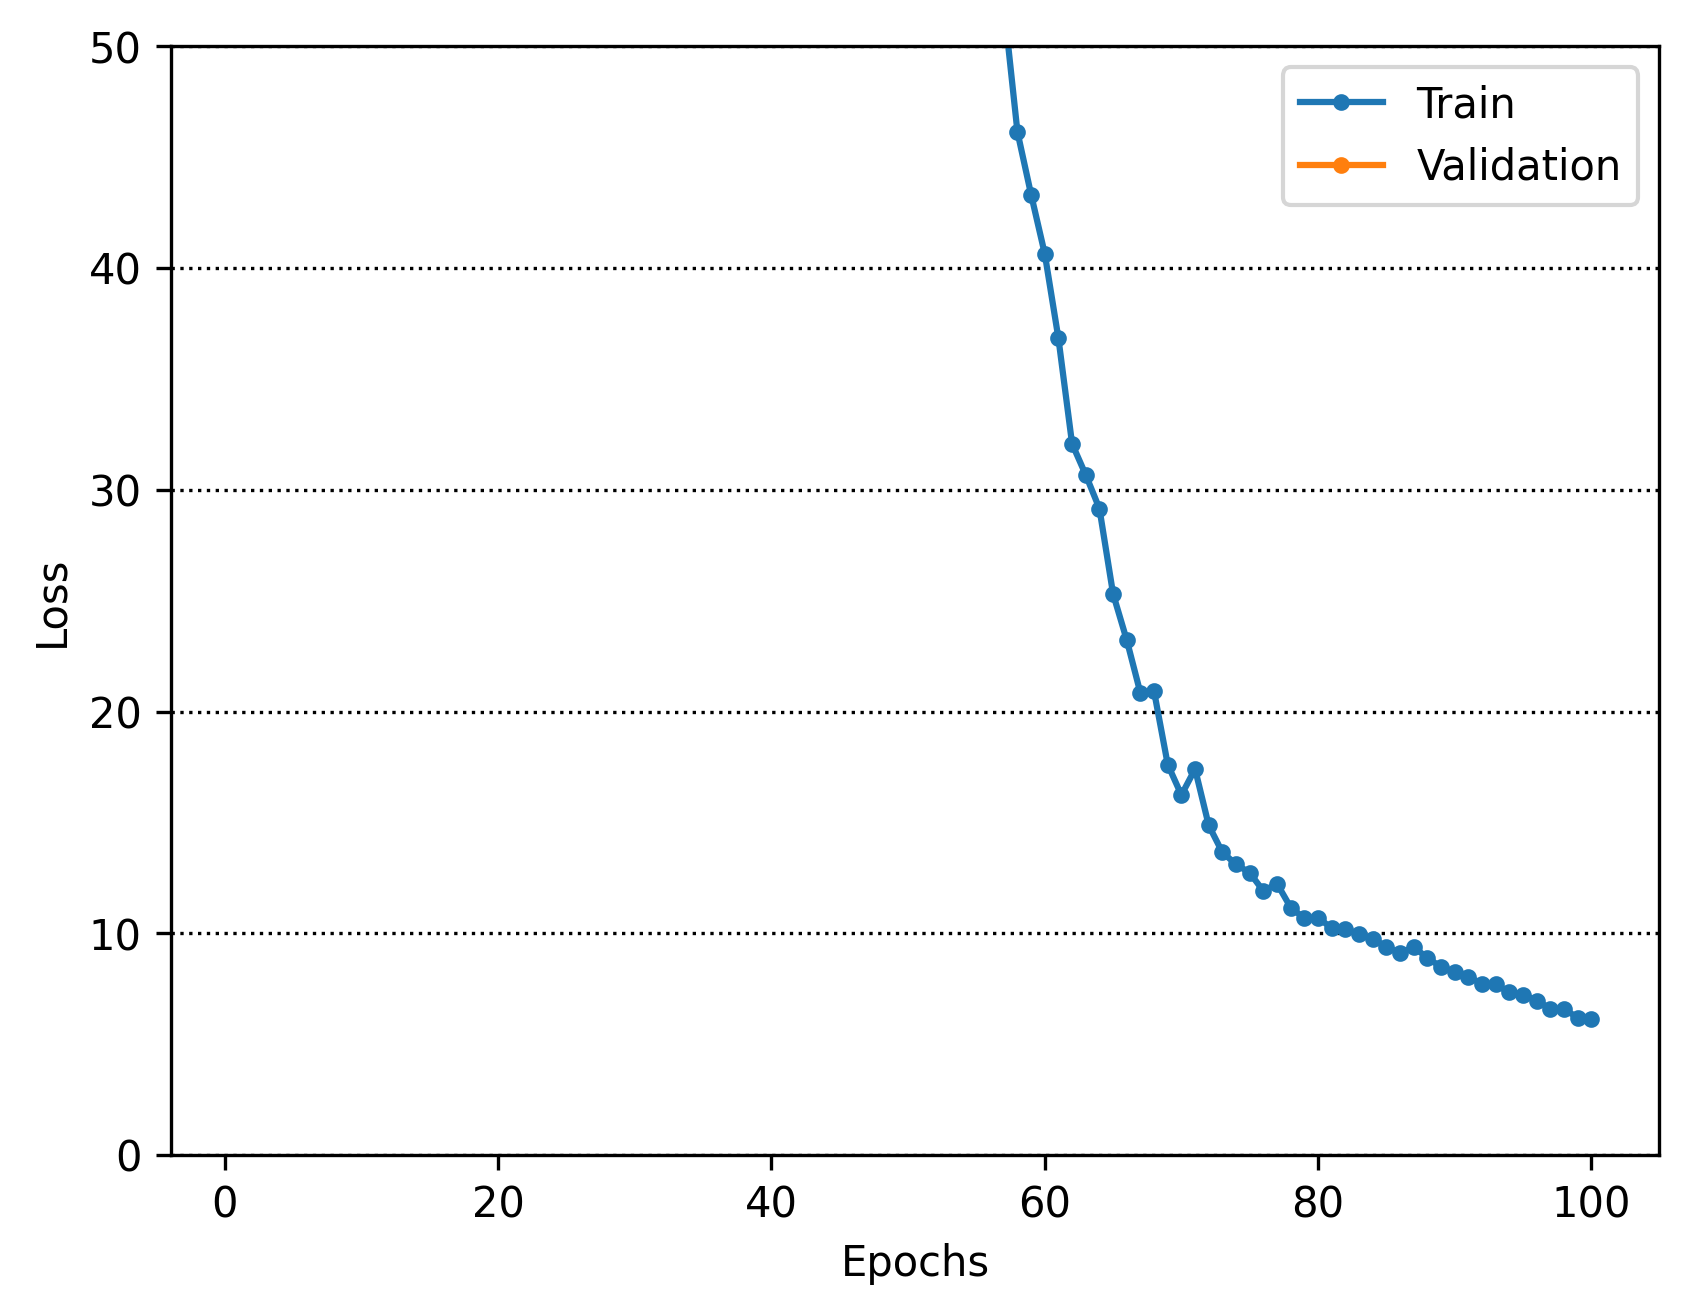
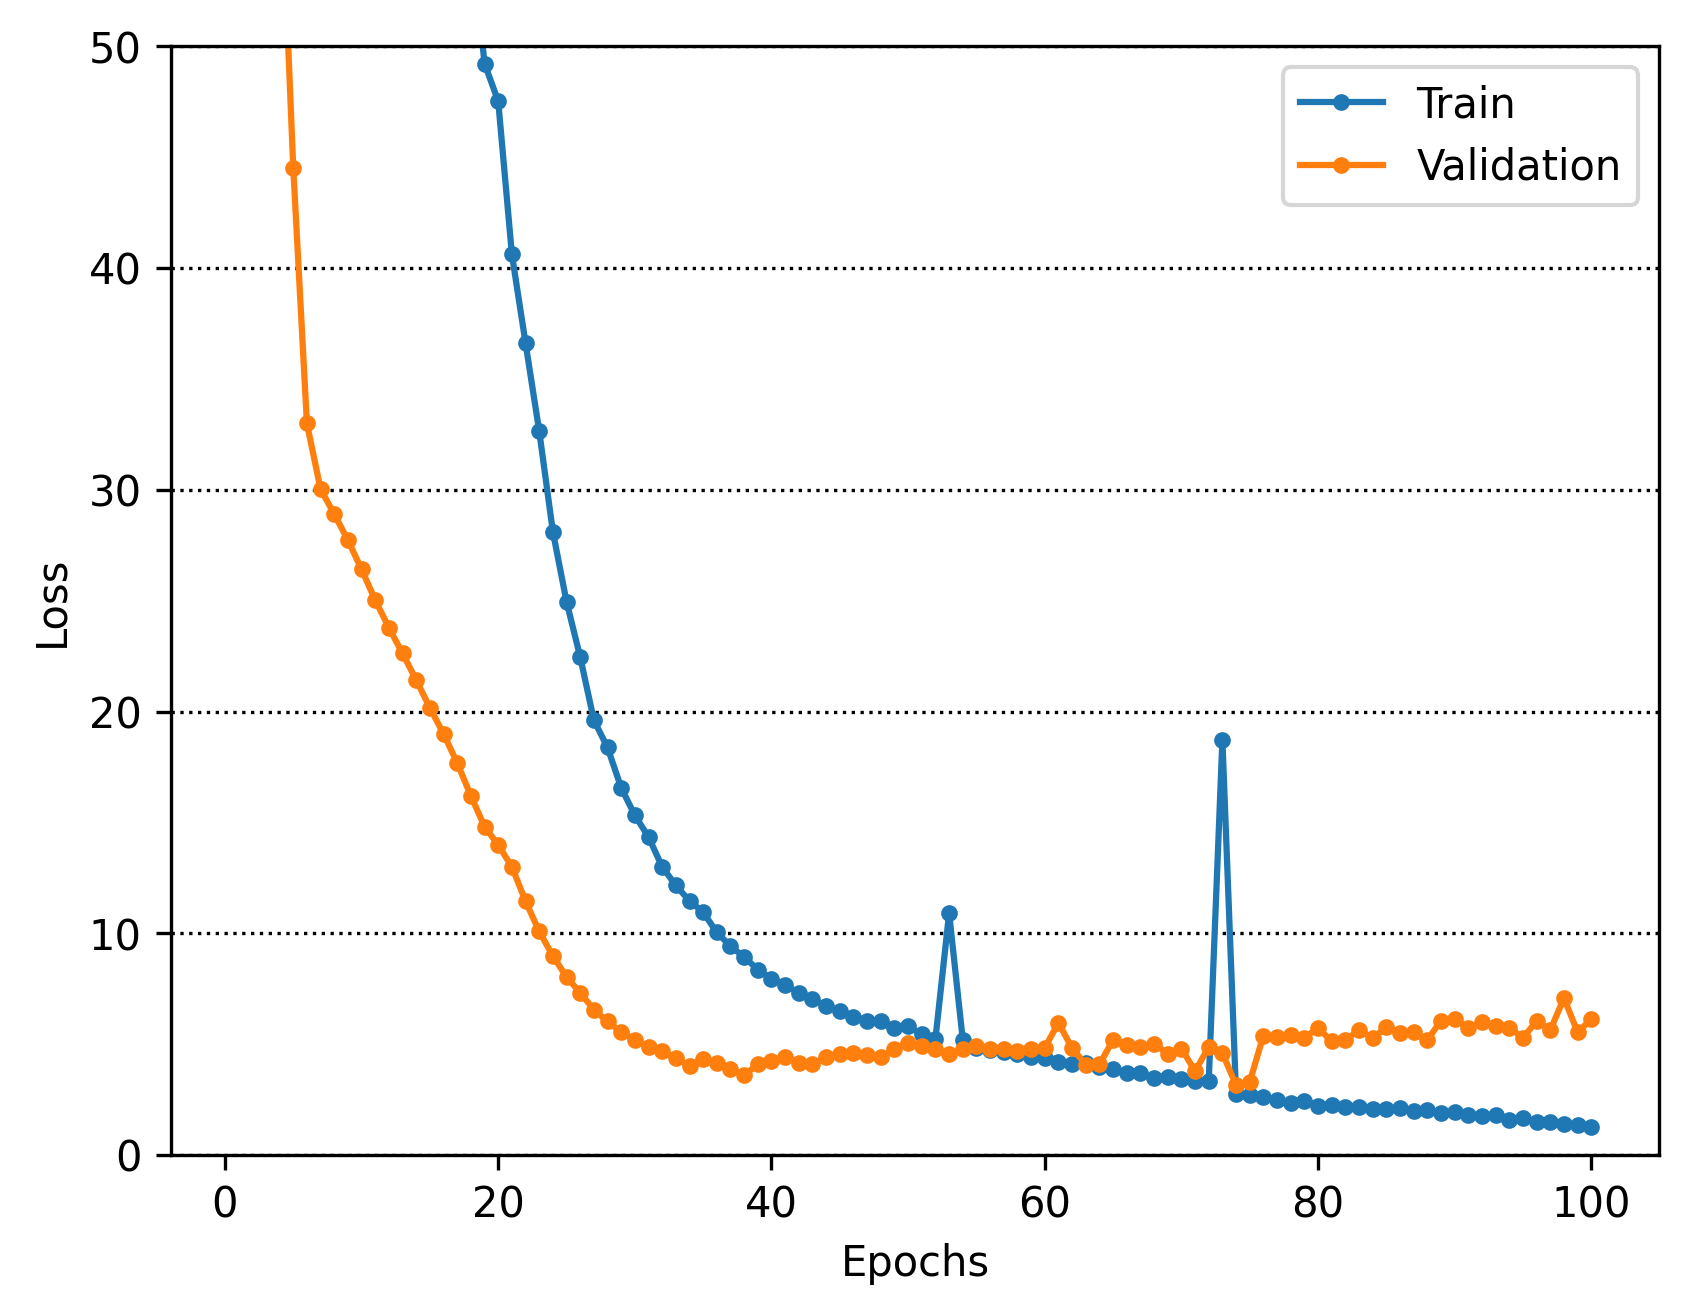
update: middle_datasetのパスを修正し、CNN-BiLSTMモデルの隠れ層サイズを拡大

diff --git a/ContinuousSignLanguage/CNN_BiLSTM/models/cnn_bilstm_model.py b/ContinuousSignLanguage/CNN_BiLSTM/models/cnn_bilstm_model.py
@@ -67,9 +67,9 @@ class CNNBiLSTMModel(nn.Module):
         self.cnn_model = cnn.DualCNNWithCTC(
             skeleton_input_size=in_channels,
             hand_feature_size=50,
-            skeleton_hidden_size=128,
-            hand_hidden_size=128,
-            fusion_hidden_size=192,
+            skeleton_hidden_size=512,
+            hand_hidden_size=512,
+            fusion_hidden_size=1024,
             num_classes=num_classes,
             blank_idx=blank_idx,
         ).to("cpu")
@@ -85,17 +85,17 @@ class CNNBiLSTMModel(nn.Module):
 
         self.temporal_model = BiLSTM.BiLSTMLayer(
             rnn_type="LSTM",
-            input_size=192,
-            hidden_size=192,  # 隠れ層のサイズ
-            num_layers=2,
+            input_size=1024,
+            hidden_size=1024,  # 隠れ層のサイズ
+            num_layers=4,
             bidirectional=True,
         )
 
         # 相関学習モジュールを追加
-        self.spatial_correlation = SpatialCorrelationModule(input_dim=192)
+        self.spatial_correlation = SpatialCorrelationModule(input_dim=1024)
 
         # クラス分類用の線形層
-        self.classifier = nn.Linear(192, num_classes)
+        self.classifier = nn.Linear(1024, num_classes)
 
         # 重みの初期化を行う - コメントアウトを解除
         self._initialize_weights()
@@ -136,7 +136,7 @@ class CNNBiLSTMModel(nn.Module):
         self.decoder = decode.Decode(
             gloss_dict=gloss_dict,
             num_classes=num_classes,
-            search_mode="greedy_lm",  # 言語モデル統合型のグリーディサーチを使用
+            search_mode="greedy",  # 言語モデル統合型のグリーディサーチを使用
             blank_id=0,
         )
 

diff --git a/ContinuousSignLanguage/CNN_BiLSTM/continuous_sign_language/config.py b/ContinuousSignLanguage/CNN_BiLSTM/continuous_sign_language/config.py
@@ -1,6 +1,6 @@
 import numpy as np
 #dataset
-read_dataset_dir = "../hdf5/middle_dataset/"
+read_dataset_dir = "../hdf5/middle_dataset_30fps/"
 test_number = "003"
 val_number = "002"
 
